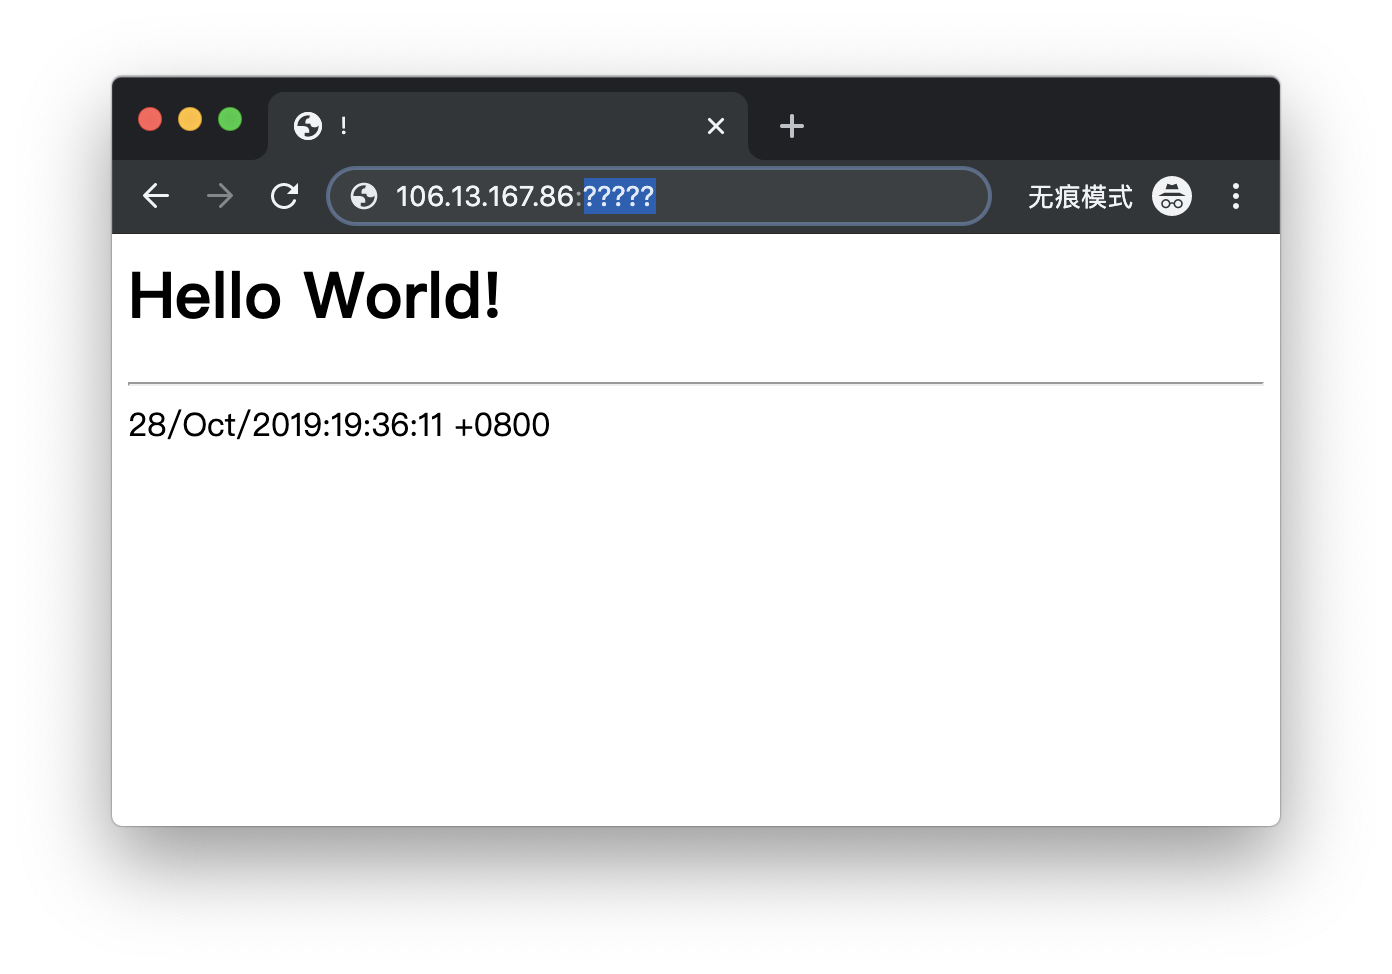
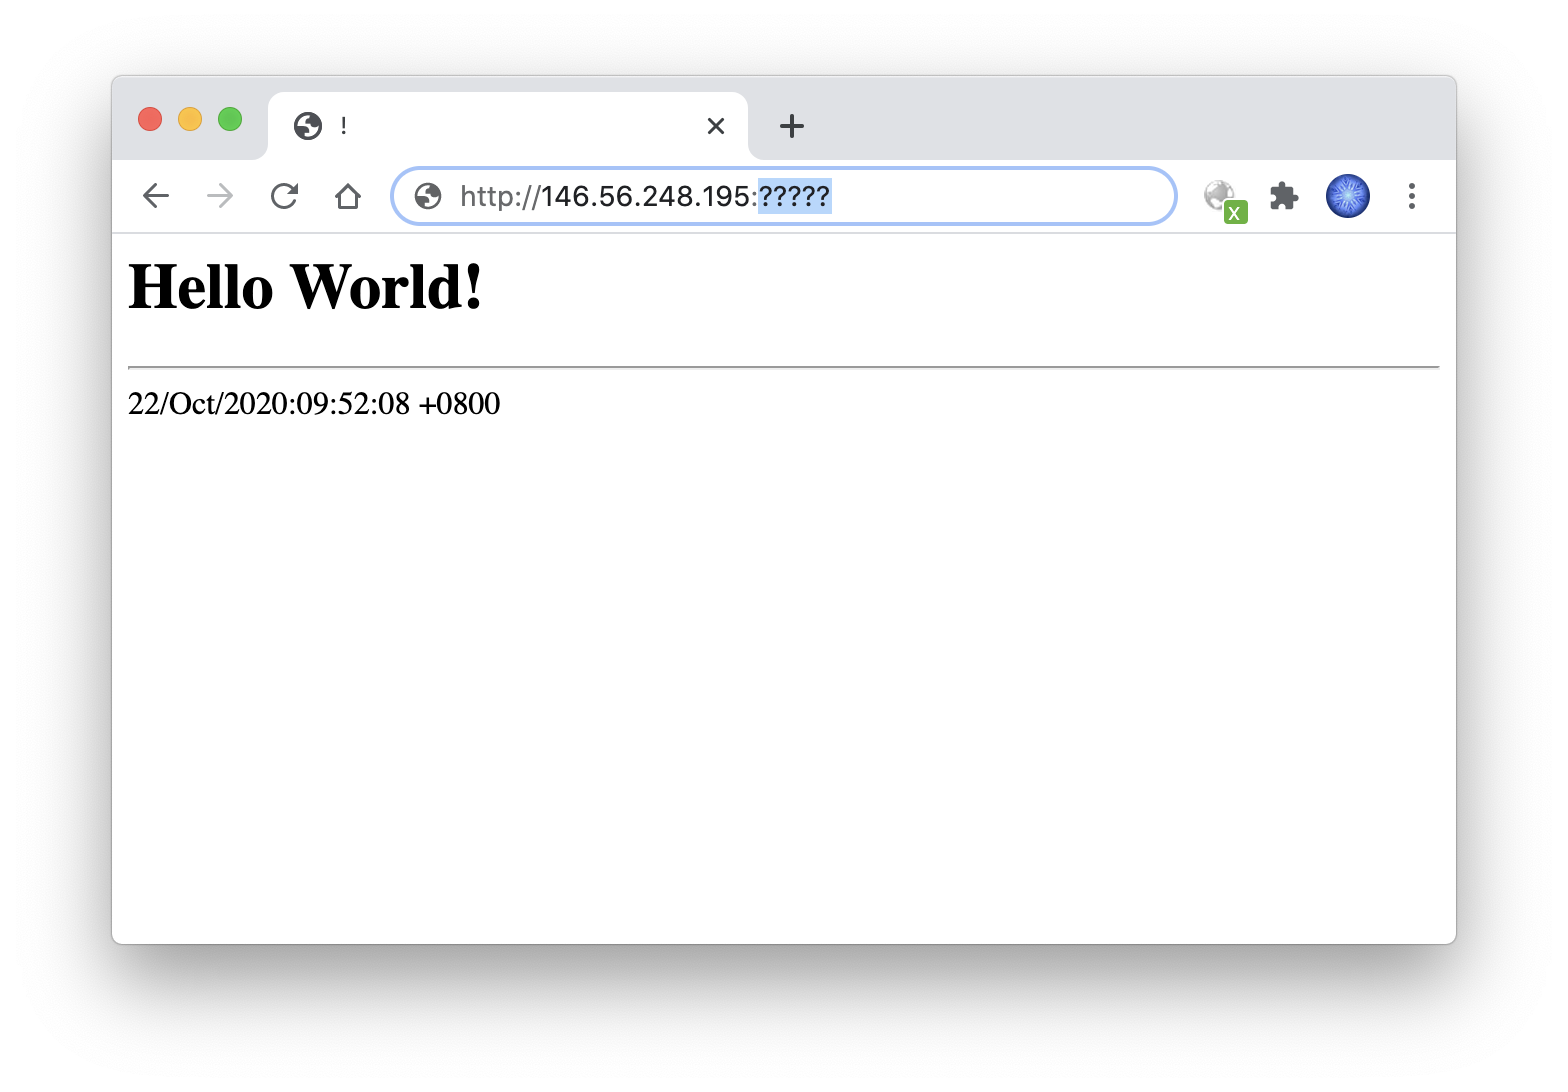
update demo server
vps update

Changed region(s): [[0.0618, 0.0616, 0.9267, 0.8932]]

diff --git a/README.md b/README.md
@@ -218,6 +218,14 @@ https://github.com/EtherDream/anti-portscan/blob/master/install.sh
 
 可以试试多久找出这个 HTTP 端口？
 
-IP：106.13.167.86
+IP：146.56.248.195
 
-![demo.png](https://github.com/EtherDream/anti-portscan/blob/master/demo.png)
+![demo.png](demo.png)
+
+<details>
+<summary>查看答案：</summary>
+  <details>
+  <summary>确定查看？</summary>
+  http://146.56.248.195:39172
+  </details>
+</details>
